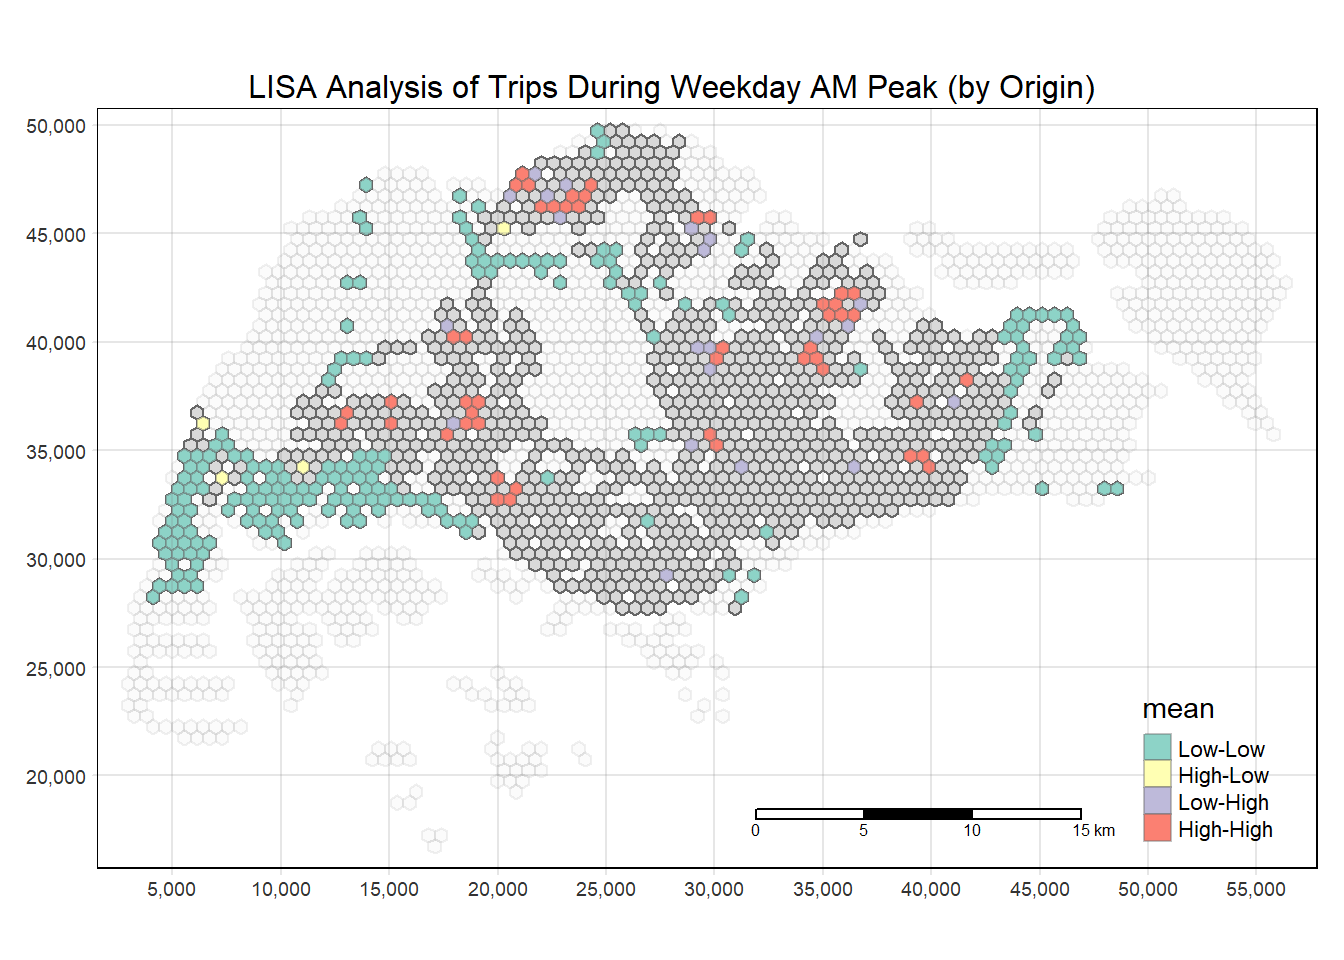
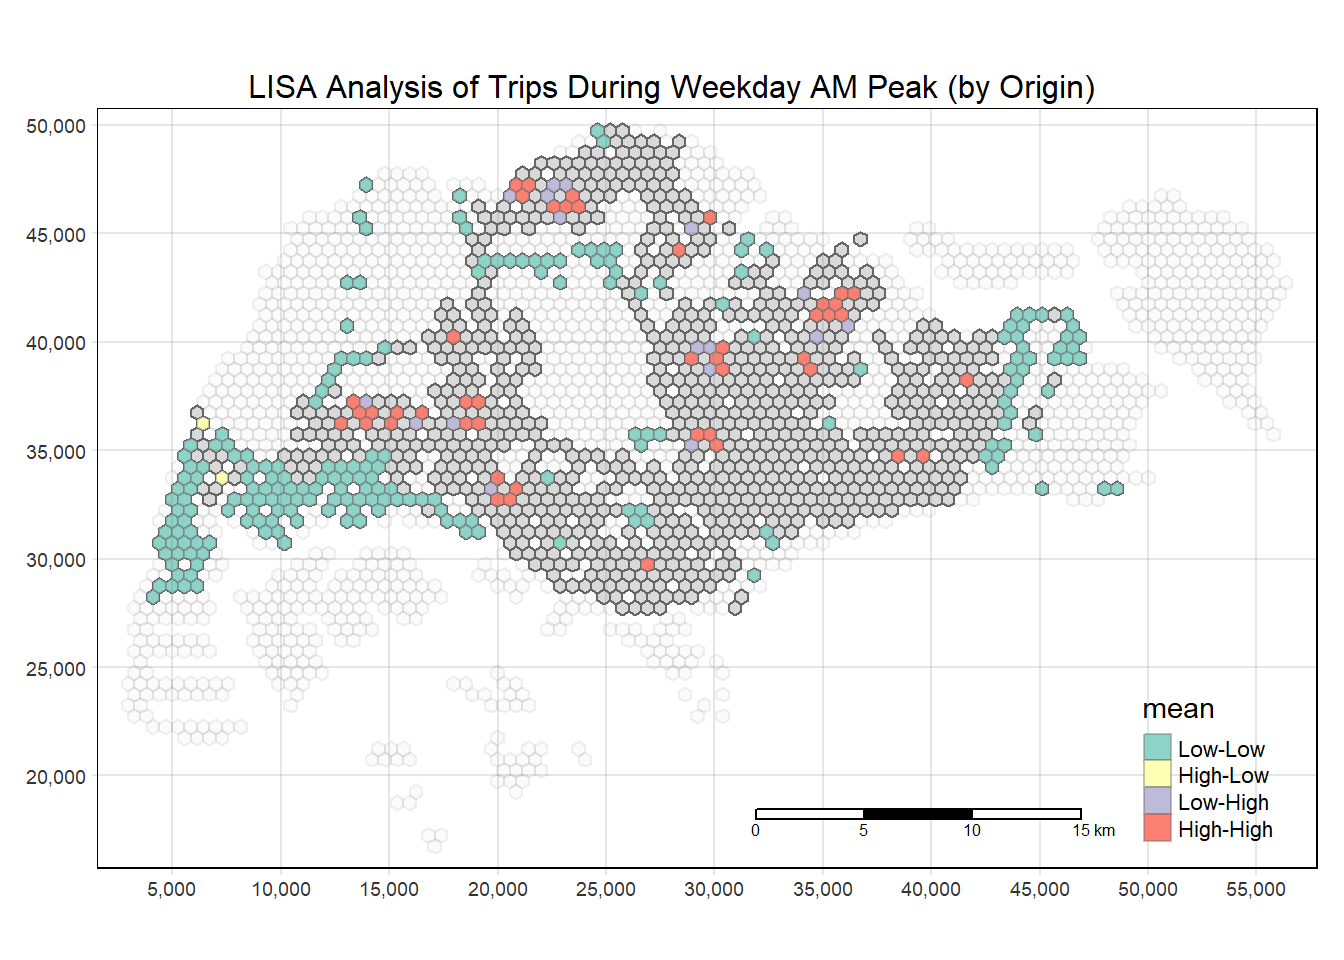
Commit In-class Ex05

diff --git a/_site/In_class_Ex/In_class_Ex02/In_Class_Ex02.html b/_site/In_class_Ex/In_class_Ex02/In_Class_Ex02.html
@@ -140,8 +140,6 @@ pre > code.sourceCode > span > a:first-child::before { text-decoration: underlin
     <a class="dropdown-item" href="../../Hands_on_Ex/Hands_on_Ex03/Hands_on_Ex03.html" rel="" target="">
  <span class="dropdown-text">Hands-on Exercise 3</span></a>
   </li>  
-        <li class="dropdown-header">Hands-on Exercise 4</li>
-        <li class="dropdown-header">Hands-on Exercise 5</li>
     </ul>
   </li>
   <li class="nav-item dropdown ">
@@ -164,6 +162,10 @@ pre > code.sourceCode > span > a:first-child::before { text-decoration: underlin
         <li>
     <a class="dropdown-item" href="../../In_class_Ex/In_class_Ex04/In_class_Ex04.html" rel="" target="">
  <span class="dropdown-text">In-class Exercise 4</span></a>
+  </li>  
+        <li>
+    <a class="dropdown-item" href="../../In_class_Ex/In_class_Ex05/In_class_Ex05.html" rel="" target="">
+ <span class="dropdown-text">In-class Exercise 5</span></a>
   </li>  
     </ul>
   </li>
@@ -1687,7 +1689,7 @@ Geodetic CRS:  WGS 84
 <span id="cb54-7"><a href="#cb54-7" aria-hidden="true" tabindex="-1"></a><span class="fu">ggplotly</span>(p)</span></code><button title="Copy to Clipboard" class="code-copy-button"><i class="bi"></i></button></pre></div>
 <div class="cell-output-display">
 <div class="plotly html-widget html-fill-item-overflow-hidden html-fill-item" id="htmlwidget-d4ef924cbf5e69f2e96d" style="width:100%;height:464px;"></div>
-<script type="application/json" data-for="htmlwidget-d4ef924cbf5e69f2e96d">{"x":{"data":[{"x":[2005,2006,2007,2008,2009,2010,2011,2012,2013,2014,2015,2016,2017,2018,2019,2020,2021],"y":[5.0282995066289047,5.1692011079782345,5.2958892892912894,5.6039537096873993,6.2788862246004742,5.9357455762937326,5.7508709054298892,5.6942475830114576,5.7085054237054784,5.7608121561733521,6.097127241257188,6.0036547779673146,6.2028053540357906,6.0371816202738318,6.579432171885526,5.7669155664195504,5.7486534794156494],"text":["Year: 2005<br />gi_star: 5.028300","Year: 2006<br />gi_star: 5.169201","Year: 2007<br />gi_star: 5.295889","Year: 2008<br />gi_star: 5.603954","Year: 2009<br />gi_star: 6.278886","Year: 2010<br />gi_star: 5.935746","Year: 2011<br />gi_star: 5.750871","Year: 2012<br />gi_star: 5.694248","Year: 2013<br />gi_star: 5.708505","Year: 2014<br />gi_star: 5.760812","Year: 2015<br />gi_star: 6.097127","Year: 2016<br />gi_star: 6.003655","Year: 2017<br />gi_star: 6.202805","Year: 2018<br />gi_star: 6.037182","Year: 2019<br />gi_star: 6.579432","Year: 2020<br />gi_star: 5.766916","Year: 2021<br />gi_star: 5.748653"],"type":"scatter","mode":"lines","line":{"width":1.8897637795275593,"color":"rgba(0,0,0,1)","dash":"solid"},"hoveron":"points","showlegend":false,"xaxis":"x","yaxis":"y","hoverinfo":"text","frame":null}],"layout":{"margin":{"t":26.228310502283104,"r":7.3059360730593621,"b":40.182648401826491,"l":43.105022831050235},"plot_bgcolor":"rgba(255,255,255,1)","paper_bgcolor":"rgba(255,255,255,1)","font":{"color":"rgba(0,0,0,1)","family":"","size":14.611872146118724},"xaxis":{"domain":[0,1],"automargin":true,"type":"linear","autorange":false,"range":[2004.2,2021.8],"tickmode":"array","ticktext":["2005","2010","2015","2020"],"tickvals":[2005,2010,2015,2020],"categoryorder":"array","categoryarray":["2005","2010","2015","2020"],"nticks":null,"ticks":"outside","tickcolor":"rgba(179,179,179,1)","ticklen":3.6529680365296811,"tickwidth":0.33208800332088001,"showticklabels":true,"tickfont":{"color":"rgba(77,77,77,1)","family":"","size":11.68949771689498},"tickangle":-0,"showline":false,"linecolor":null,"linewidth":0,"showgrid":true,"gridcolor":"rgba(222,222,222,1)","gridwidth":0.33208800332088001,"zeroline":false,"anchor":"y","title":{"text":"Year","font":{"color":"rgba(0,0,0,1)","family":"","size":14.611872146118724}},"hoverformat":".2f"},"yaxis":{"domain":[0,1],"automargin":true,"type":"linear","autorange":false,"range":[4.9507428733660737,6.656988805148357],"tickmode":"array","ticktext":["5.0","5.5","6.0","6.5"],"tickvals":[5,5.5,6,6.5],"categoryorder":"array","categoryarray":["5.0","5.5","6.0","6.5"],"nticks":null,"ticks":"outside","tickcolor":"rgba(179,179,179,1)","ticklen":3.6529680365296811,"tickwidth":0.33208800332088001,"showticklabels":true,"tickfont":{"color":"rgba(77,77,77,1)","family":"","size":11.68949771689498},"tickangle":-0,"showline":false,"linecolor":null,"linewidth":0,"showgrid":true,"gridcolor":"rgba(222,222,222,1)","gridwidth":0.33208800332088001,"zeroline":false,"anchor":"x","title":{"text":"gi_star","font":{"color":"rgba(0,0,0,1)","family":"","size":14.611872146118724}},"hoverformat":".2f"},"shapes":[{"type":"rect","fillcolor":"transparent","line":{"color":"rgba(179,179,179,1)","width":0.66417600664176002,"linetype":"solid"},"yref":"paper","xref":"paper","x0":0,"x1":1,"y0":0,"y1":1}],"showlegend":false,"legend":{"bgcolor":"rgba(255,255,255,1)","bordercolor":"transparent","borderwidth":1.8897637795275593,"font":{"color":"rgba(0,0,0,1)","family":"","size":11.68949771689498}},"hovermode":"closest","barmode":"relative"},"config":{"doubleClick":"reset","modeBarButtonsToAdd":["hoverclosest","hovercompare"],"showSendToCloud":false},"source":"A","attrs":{"76a87c4773d3":{"x":{},"y":{},"type":"scatter"}},"cur_data":"76a87c4773d3","visdat":{"76a87c4773d3":["function (y) ","x"]},"highlight":{"on":"plotly_click","persistent":false,"dynamic":false,"selectize":false,"opacityDim":0.20000000000000001,"selected":{"opacity":1},"debounce":0},"shinyEvents":["plotly_hover","plotly_click","plotly_selected","plotly_relayout","plotly_brushed","plotly_brushing","plotly_clickannotation","plotly_doubleclick","plotly_deselect","plotly_afterplot","plotly_sunburstclick"],"base_url":"https://plot.ly"},"evals":[],"jsHooks":[]}</script>
+<script type="application/json" data-for="htmlwidget-d4ef924cbf5e69f2e96d">{"x":{"data":[{"x":[2005,2006,2007,2008,2009,2010,2011,2012,2013,2014,2015,2016,2017,2018,2019,2020,2021],"y":[5.0282995066289047,5.1692011079782345,5.2958892892912894,5.6039537096873993,6.2788862246004742,5.9357455762937326,5.7508709054298892,5.6942475830114576,5.7085054237054784,5.7608121561733521,6.097127241257188,6.0036547779673146,6.2028053540357906,6.0371816202738318,6.579432171885526,5.7669155664195504,5.7486534794156494],"text":["Year: 2005<br />gi_star: 5.028300","Year: 2006<br />gi_star: 5.169201","Year: 2007<br />gi_star: 5.295889","Year: 2008<br />gi_star: 5.603954","Year: 2009<br />gi_star: 6.278886","Year: 2010<br />gi_star: 5.935746","Year: 2011<br />gi_star: 5.750871","Year: 2012<br />gi_star: 5.694248","Year: 2013<br />gi_star: 5.708505","Year: 2014<br />gi_star: 5.760812","Year: 2015<br />gi_star: 6.097127","Year: 2016<br />gi_star: 6.003655","Year: 2017<br />gi_star: 6.202805","Year: 2018<br />gi_star: 6.037182","Year: 2019<br />gi_star: 6.579432","Year: 2020<br />gi_star: 5.766916","Year: 2021<br />gi_star: 5.748653"],"type":"scatter","mode":"lines","line":{"width":1.8897637795275593,"color":"rgba(0,0,0,1)","dash":"solid"},"hoveron":"points","showlegend":false,"xaxis":"x","yaxis":"y","hoverinfo":"text","frame":null}],"layout":{"margin":{"t":26.228310502283104,"r":7.3059360730593621,"b":40.182648401826491,"l":43.105022831050235},"plot_bgcolor":"rgba(255,255,255,1)","paper_bgcolor":"rgba(255,255,255,1)","font":{"color":"rgba(0,0,0,1)","family":"","size":14.611872146118724},"xaxis":{"domain":[0,1],"automargin":true,"type":"linear","autorange":false,"range":[2004.2,2021.8],"tickmode":"array","ticktext":["2005","2010","2015","2020"],"tickvals":[2005,2010,2015,2020],"categoryorder":"array","categoryarray":["2005","2010","2015","2020"],"nticks":null,"ticks":"outside","tickcolor":"rgba(179,179,179,1)","ticklen":3.6529680365296811,"tickwidth":0.33208800332088001,"showticklabels":true,"tickfont":{"color":"rgba(77,77,77,1)","family":"","size":11.68949771689498},"tickangle":-0,"showline":false,"linecolor":null,"linewidth":0,"showgrid":true,"gridcolor":"rgba(222,222,222,1)","gridwidth":0.33208800332088001,"zeroline":false,"anchor":"y","title":{"text":"Year","font":{"color":"rgba(0,0,0,1)","family":"","size":14.611872146118724}},"hoverformat":".2f"},"yaxis":{"domain":[0,1],"automargin":true,"type":"linear","autorange":false,"range":[4.9507428733660737,6.656988805148357],"tickmode":"array","ticktext":["5.0","5.5","6.0","6.5"],"tickvals":[5,5.5,6,6.5],"categoryorder":"array","categoryarray":["5.0","5.5","6.0","6.5"],"nticks":null,"ticks":"outside","tickcolor":"rgba(179,179,179,1)","ticklen":3.6529680365296811,"tickwidth":0.33208800332088001,"showticklabels":true,"tickfont":{"color":"rgba(77,77,77,1)","family":"","size":11.68949771689498},"tickangle":-0,"showline":false,"linecolor":null,"linewidth":0,"showgrid":true,"gridcolor":"rgba(222,222,222,1)","gridwidth":0.33208800332088001,"zeroline":false,"anchor":"x","title":{"text":"gi_star","font":{"color":"rgba(0,0,0,1)","family":"","size":14.611872146118724}},"hoverformat":".2f"},"shapes":[{"type":"rect","fillcolor":"transparent","line":{"color":"rgba(179,179,179,1)","width":0.66417600664176002,"linetype":"solid"},"yref":"paper","xref":"paper","x0":0,"x1":1,"y0":0,"y1":1}],"showlegend":false,"legend":{"bgcolor":"rgba(255,255,255,1)","bordercolor":"transparent","borderwidth":1.8897637795275593,"font":{"color":"rgba(0,0,0,1)","family":"","size":11.68949771689498}},"hovermode":"closest","barmode":"relative"},"config":{"doubleClick":"reset","modeBarButtonsToAdd":["hoverclosest","hovercompare"],"showSendToCloud":false},"source":"A","attrs":{"7a2454bd4d43":{"x":{},"y":{},"type":"scatter"}},"cur_data":"7a2454bd4d43","visdat":{"7a2454bd4d43":["function (y) ","x"]},"highlight":{"on":"plotly_click","persistent":false,"dynamic":false,"selectize":false,"opacityDim":0.20000000000000001,"selected":{"opacity":1},"debounce":0},"shinyEvents":["plotly_hover","plotly_click","plotly_selected","plotly_relayout","plotly_brushed","plotly_brushing","plotly_clickannotation","plotly_doubleclick","plotly_deselect","plotly_afterplot","plotly_sunburstclick"],"base_url":"https://plot.ly"},"evals":[],"jsHooks":[]}</script>
 </div>
 </div>
 <div class="cell">

diff --git a/_site/Take_Home_Ex/Take_home_Ex01/Take_home_Ex01.html b/_site/Take_Home_Ex/Take_home_Ex01/Take_home_Ex01.html
@@ -1331,16 +1331,16 @@ Projected CRS: SVY21 / Singapore TM
 # A tibble: 1,119 × 17
         ii      eii  var_ii  z_ii   p_ii p_ii_sim p_folded_sim skewness kurtosis
      &lt;dbl&gt;    &lt;dbl&gt;   &lt;dbl&gt; &lt;dbl&gt;  &lt;dbl&gt;    &lt;dbl&gt;        &lt;dbl&gt;    &lt;dbl&gt;    &lt;dbl&gt;
- 1 0.00300  1.80e-4 2.06e-6  1.96 0.0496     0.02         0.01   -0.841    0.730
- 2 0.00402 -1.69e-4 5.55e-6  1.78 0.0751     0.02         0.01   -1.03     0.658
- 3 0.00481 -4.14e-6 7.84e-6  1.72 0.0853     0.02         0.01   -1.42     3.43 
- 4 0.00498 -5.57e-6 6.65e-6  1.93 0.0534     0.02         0.01   -0.805    0.232
- 5 0.00532 -1.49e-4 6.33e-6  2.17 0.0299     0.02         0.01   -0.334   -0.701
- 6 0.00474  2.81e-4 5.71e-6  1.87 0.0621     0.02         0.01   -1.33     2.94 
- 7 0.00498 -2.60e-4 7.28e-6  1.94 0.0522     0.02         0.01   -0.892    0.282
- 8 0.00585  2.68e-4 1.03e-5  1.74 0.0813     0.02         0.01   -2.01     6.79 
- 9 0.00540  2.01e-4 5.82e-6  2.16 0.0310     0.02         0.01   -0.790    0.373
-10 0.00460 -2.77e-4 7.34e-6  1.80 0.0720     0.02         0.01   -1.03     1.47 
+ 1 0.00300  1.16e-4 2.38e-6  1.87 0.0619     0.02         0.01   -0.709   -0.191
+ 2 0.00402  2.19e-4 4.36e-6  1.82 0.0686     0.02         0.01   -1.28     3.03 
+ 3 0.00481 -3.35e-4 6.26e-6  2.06 0.0396     0.02         0.01   -1.15     2.12 
+ 4 0.00498 -3.06e-4 9.94e-6  1.68 0.0939     0.02         0.01   -1.93     5.87 
+ 5 0.00532 -2.71e-5 5.87e-6  2.20 0.0275     0.02         0.01   -0.419   -0.153
+ 6 0.00474  3.42e-4 5.18e-6  1.93 0.0533     0.02         0.01   -1.42     4.60 
+ 7 0.00498 -1.81e-4 7.47e-6  1.89 0.0589     0.02         0.01   -1.07     1.38 
+ 8 0.00585  4.94e-4 6.03e-6  2.18 0.0292     0.02         0.01   -0.979    1.83 
+ 9 0.00540  2.35e-4 6.51e-6  2.03 0.0428     0.02         0.01   -1.05     1.57 
+10 0.00460  8.18e-6 1.21e-5  1.32 0.187      0.02         0.01   -2.50     8.32 
 # ℹ 1,109 more rows
 # ℹ 8 more variables: mean &lt;fct&gt;, median &lt;fct&gt;, pysal &lt;fct&gt;, nb &lt;nb&gt;,
 #   wt &lt;list&gt;, id &lt;fct&gt;, TRIPS &lt;dbl&gt;, geometry &lt;POLYGON [m]&gt;</code></pre>
@@ -1395,16 +1395,16 @@ Projected CRS: SVY21 / Singapore TM
 # A tibble: 1,127 × 17
         ii      eii  var_ii  z_ii   p_ii p_ii_sim p_folded_sim skewness kurtosis
      &lt;dbl&gt;    &lt;dbl&gt;   &lt;dbl&gt; &lt;dbl&gt;  &lt;dbl&gt;    &lt;dbl&gt;        &lt;dbl&gt;    &lt;dbl&gt;    &lt;dbl&gt;
- 1 0.00199  6.30e-5 1.44e-6  1.60 0.109      0.02         0.01    -1.14    0.668
- 2 0.00267 -6.79e-5 2.89e-6  1.61 0.107      0.02         0.01    -2.08    5.10 
- 3 0.00313  1.27e-4 3.96e-6  1.51 0.131      0.02         0.01    -1.50    2.59 
- 4 0.00297 -3.83e-4 5.12e-6  1.48 0.138      0.02         0.01    -1.59    2.43 
- 5 0.00348  3.86e-4 3.12e-6  1.75 0.0801     0.02         0.01    -1.24    1.53 
- 6 0.00295 -2.76e-4 3.13e-6  1.82 0.0686     0.02         0.01    -1.27    1.42 
- 7 0.00320 -1.35e-4 5.02e-6  1.49 0.137      0.02         0.01    -1.98    5.08 
- 8 0.00358  2.78e-5 4.47e-6  1.68 0.0930     0.02         0.01    -1.59    2.95 
- 9 0.00349 -9.42e-5 5.79e-6  1.49 0.136      0.02         0.01    -3.01   12.2  
-10 0.00307  8.47e-7 3.62e-6  1.61 0.107      0.02         0.01    -1.76    3.68 
+ 1 0.00199 -1.18e-4 1.86e-6  1.55 0.122      0.02         0.01    -1.13    0.627
+ 2 0.00267 -1.72e-4 2.36e-6  1.85 0.0643     0.02         0.01    -1.16    1.24 
+ 3 0.00313 -1.57e-7 2.96e-6  1.82 0.0687     0.02         0.01    -1.48    3.91 
+ 4 0.00297 -1.93e-4 3.77e-6  1.63 0.103      0.02         0.01    -2.24    7.77 
+ 5 0.00348 -5.27e-5 5.81e-6  1.46 0.143      0.02         0.01    -2.05    5.82 
+ 6 0.00295  1.93e-5 3.42e-6  1.58 0.114      0.02         0.01    -1.60    2.89 
+ 7 0.00320 -5.47e-5 5.40e-6  1.40 0.161      0.02         0.01    -1.43    1.70 
+ 8 0.00358  1.32e-4 3.62e-6  1.81 0.0698     0.02         0.01    -1.45    3.10 
+ 9 0.00349 -1.85e-5 5.46e-6  1.50 0.133      0.02         0.01    -2.30    8.01 
+10 0.00307 -9.06e-5 4.97e-6  1.42 0.156      0.02         0.01    -2.22    7.72 
 # ℹ 1,117 more rows
 # ℹ 8 more variables: mean &lt;fct&gt;, median &lt;fct&gt;, pysal &lt;fct&gt;, nb &lt;nb&gt;,
 #   wt &lt;list&gt;, id &lt;fct&gt;, TRIPS &lt;dbl&gt;, geometry &lt;POLYGON [m]&gt;</code></pre>
@@ -1458,16 +1458,16 @@ Projected CRS: SVY21 / Singapore TM
 # A tibble: 1,107 × 17
         ii      eii  var_ii  z_ii   p_ii p_ii_sim p_folded_sim skewness kurtosis
      &lt;dbl&gt;    &lt;dbl&gt;   &lt;dbl&gt; &lt;dbl&gt;  &lt;dbl&gt;    &lt;dbl&gt;        &lt;dbl&gt;    &lt;dbl&gt;    &lt;dbl&gt;
- 1 0.00295  6.95e-5 2.55e-6  1.81 0.0710     0.02         0.01   -0.746    0.554
- 2 0.00415 -1.07e-4 6.49e-6  1.67 0.0949     0.02         0.01   -2.29     9.90 
- 3 0.00427  1.91e-4 4.59e-6  1.90 0.0571     0.02         0.01   -1.76     4.27 
- 4 0.00454 -1.81e-4 7.69e-6  1.70 0.0891     0.02         0.01   -1.54     3.20 
- 5 0.00387 -2.01e-4 6.77e-6  1.57 0.118      0.02         0.01   -1.47     2.62 
- 6 0.00436  7.22e-6 5.17e-6  1.92 0.0555     0.02         0.01   -1.17     2.73 
- 7 0.00476  7.06e-4 4.10e-6  2.00 0.0453     0.02         0.01   -0.717    0.397
- 8 0.00460 -1.27e-4 8.72e-6  1.60 0.109      0.02         0.01   -1.30     1.63 
- 9 0.00376  8.41e-6 6.85e-6  1.43 0.152      0.04         0.02   -1.22     1.81 
-10 0.00466  3.56e-4 8.32e-6  1.49 0.135      0.02         0.01   -2.42     9.80 
+ 1 0.00295 -1.66e-4 3.50e-6  1.67 0.0954     0.02         0.01    -1.57     3.06
+ 2 0.00415 -8.47e-5 6.54e-6  1.65 0.0980     0.02         0.01    -1.80     4.74
+ 3 0.00427 -4.50e-4 7.92e-6  1.68 0.0937     0.02         0.01    -1.61     3.42
+ 4 0.00454 -3.89e-4 9.20e-6  1.62 0.105      0.02         0.01    -1.25     1.64
+ 5 0.00387 -4.51e-4 6.73e-6  1.67 0.0956     0.02         0.01    -1.33     2.76
+ 6 0.00436 -3.28e-4 8.43e-6  1.62 0.106      0.02         0.01    -1.77     4.37
+ 7 0.00476 -2.14e-4 8.21e-6  1.74 0.0824     0.02         0.01    -1.16     1.19
+ 8 0.00460 -1.90e-4 8.78e-6  1.62 0.106      0.02         0.01    -1.76     4.84
+ 9 0.00376  1.30e-4 5.35e-6  1.57 0.117      0.02         0.01    -1.29     2.14
+10 0.00466  5.09e-4 5.80e-6  1.73 0.0844     0.02         0.01    -1.27     1.62
 # ℹ 1,097 more rows
 # ℹ 8 more variables: mean &lt;fct&gt;, median &lt;fct&gt;, pysal &lt;fct&gt;, nb &lt;nb&gt;,
 #   wt &lt;list&gt;, id &lt;fct&gt;, TRIPS &lt;dbl&gt;, geometry &lt;POLYGON [m]&gt;</code></pre>
@@ -1521,16 +1521,16 @@ Projected CRS: SVY21 / Singapore TM
 # A tibble: 1,109 × 17
         ii      eii  var_ii  z_ii   p_ii p_ii_sim p_folded_sim skewness kurtosis
      &lt;dbl&gt;    &lt;dbl&gt;   &lt;dbl&gt; &lt;dbl&gt;  &lt;dbl&gt;    &lt;dbl&gt;        &lt;dbl&gt;    &lt;dbl&gt;    &lt;dbl&gt;
- 1 0.00205 -1.52e-5 1.52e-6  1.68 0.0934     0.02         0.01    -1.25     1.62
- 2 0.00276 -1.56e-4 3.56e-6  1.55 0.122      0.02         0.01    -1.43     2.70
- 3 0.00318  1.78e-4 4.00e-6  1.50 0.133      0.02         0.01    -1.48     2.26
- 4 0.00315  1.58e-5 4.56e-6  1.47 0.142      0.02         0.01    -1.61     3.52
- 5 0.00351 -7.25e-5 4.78e-6  1.64 0.101      0.02         0.01    -1.58     3.72
- 6 0.00311  1.76e-4 3.96e-6  1.47 0.141      0.02         0.01    -2.63    12.1 
- 7 0.00335 -1.28e-4 6.05e-6  1.41 0.158      0.02         0.01    -1.96     4.68
- 8 0.00347 -7.27e-5 5.02e-6  1.58 0.114      0.02         0.01    -1.63     3.91
- 9 0.00358  1.42e-5 5.57e-6  1.51 0.131      0.02         0.01    -2.62    10.6 
-10 0.00284  1.42e-4 3.48e-6  1.45 0.148      0.02         0.01    -1.37     2.13
+ 1 0.00205  1.16e-4 1.37e-6  1.66 0.0977     0.02         0.01   -1.13     0.971
+ 2 0.00276 -2.06e-4 3.30e-6  1.63 0.102      0.02         0.01   -1.26     1.85 
+ 3 0.00318 -1.10e-4 4.53e-6  1.54 0.122      0.02         0.01   -1.54     2.79 
+ 4 0.00315 -1.09e-4 4.21e-6  1.59 0.112      0.02         0.01   -1.66     3.90 
+ 5 0.00351  8.08e-5 7.97e-6  1.21 0.224      0.02         0.01   -2.89     9.99 
+ 6 0.00311 -1.50e-5 3.10e-6  1.77 0.0761     0.02         0.01   -1.29     1.00 
+ 7 0.00335 -2.04e-4 3.79e-6  1.82 0.0681     0.02         0.01   -0.909    1.08 
+ 8 0.00347  1.79e-4 4.04e-6  1.64 0.101      0.02         0.01   -1.92     5.22 
+ 9 0.00358  5.00e-4 3.62e-6  1.62 0.105      0.02         0.01   -1.45     2.46 
+10 0.00284 -3.20e-4 3.61e-6  1.66 0.0963     0.02         0.01   -1.17     1.50 
 # ℹ 1,099 more rows
 # ℹ 8 more variables: mean &lt;fct&gt;, median &lt;fct&gt;, pysal &lt;fct&gt;, nb &lt;nb&gt;,
 #   wt &lt;list&gt;, id &lt;fct&gt;, TRIPS &lt;dbl&gt;, geometry &lt;POLYGON [m]&gt;</code></pre>

diff --git a/_site/index.html b/_site/index.html
@@ -7,7 +7,7 @@
 <meta name="viewport" content="width=device-width, initial-scale=1.0, user-scalable=yes">
 
 
-<title>ISSS624</title>
+<title>ISSS624 - Noel’s Geospatial Analytics Journey (ISSS624)</title>
 <style>
 code{white-space: pre-wrap;}
 span.smallcaps{font-variant: small-caps;}
@@ -170,7 +170,7 @@ ul.task-list li input[type="checkbox"] {
 
 <header id="title-block-header" class="quarto-title-block default">
 <div class="quarto-title">
-<h1 class="title">ISSS624</h1>
+<h1 class="title">Noel’s Geospatial Analytics Journey (ISSS624)</h1>
 </div>
 
 
@@ -185,8 +185,8 @@ ul.task-list li input[type="checkbox"] {
 
 </header>
 
-<p>Welcome to ISSS624 Geospatial Analytics Application!</p>
-<p>I will share with you my learning journey in Geospatial Analytics in this webpage :)</p>
+<p>Welcome to Noel’s ISSS624 website!</p>
+<p>This website documents my 5-weeks learning journey in Geospatial Analytics in this webpage :)</p>
 
 
 
